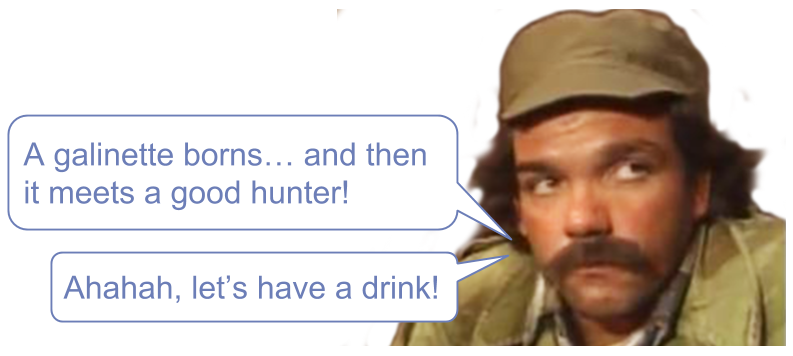
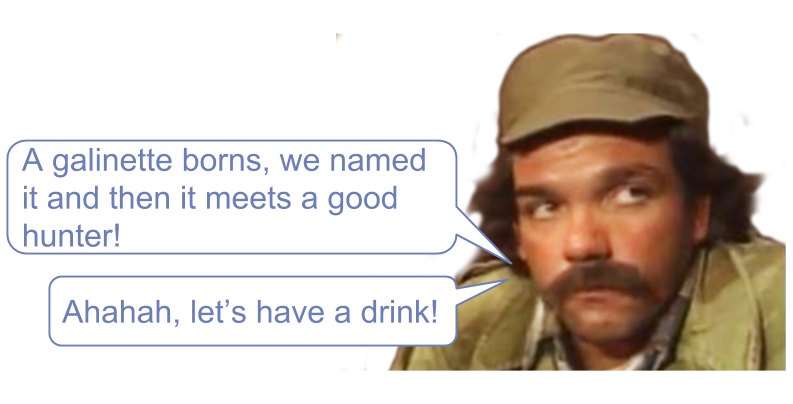
Rework galinette design

Changed region(s): [[0.0, 0.0, 0.9987, 0.9888], [0.7264, 0.1545, 0.7566, 0.1854], [0.6658, 0.5253, 0.6961, 0.5562]]

diff --git a/bad-or-good-repository.html b/bad-or-good-repository.html
@@ -144,21 +144,19 @@
 
 							final class Galinette
 							{
-								private $identifier;
-								private $birthday;
-								private $name;
-								private $gender;
-								private $goToHeavenAt;
-
 								// constructor ...
 
 								public static function born(
 									Identifier $identifier,
 									Birthday $birthday,
-									Name $name,
 									Gender $gender
 								): Galinette {
-									return new self($identifier, $birthday, $name, $gender);
+									return new self($identifier, $birthday, new Name(''), $gender);
+								}
+
+							    public function name(Name $name): void
+								{
+									$this->name = $name;
 								}
 
 								public function goToHeaven(): void
@@ -428,29 +426,31 @@
 						<code class="php hljs" data-trim >
 							namespace BouchonnoisCorp\Infrastructure\Storage\Doctrine\Query;
 
-							final class ReleaseOfGalinette implements ReleaseOfGalinette
+							final class ReleaseOfGalinette
 							{
-								private $entityManager;
+								private $connection;
 
-								public function __construct(EntityManagerInterface $entityManager)
+								public function __construct(Connection $connection)
 								{
-									$this->entityManager = $entityManager;
+									$this->connection = $connection;
 								}
 
-								public function findGalinettes(): ReleasedGalinette[]
+								public function findGalinettes(): array
 								{
-									$select = sprintf(
-										'NEW %s(g.identifier, g.name, g.birthday)',
-										ReadModel\ReleaseOfGalinette::class
-									);
+									$query = 'SELECT g.identifier, g.name, g.birthday FROM galinette as g'
 
-									// NEW ReadModel\ReleasedGalinette(g.identifier, g.name, g.birthday)
-									$query = $this->entityManager->createQueryBuilder()
-										->select($select)
-										->from(Galinette::class, 'g')
-										->getQuery();
+									$statement = $this->connection->query($query);
 
-									return $query->execute();
+									$galinettes = [];
+									while ($galinette = $statement->fetch()) {
+										$galinettes[] = new ReadModel\ReleasedGalinette(
+											$galinette['identifier'],
+											$galinette['name'],
+											$galinette['birthday']
+										);
+									}
+
+									return $galinettes;
 								}
 							}
 						</code>
@@ -460,12 +460,12 @@
 					</aside>
 				</section>
 
-				<section>
-					<h2>What is a <strong class="php-color">Read model</strong>?</h2>
-					<blockquote class="fragment">
-						&laquo;A <strong class="sylius-color">read model</strong> is a immutable model specialized for reads.&raquo;
-					</blockquote>
-				</section>
+				<!--<section>-->
+					<!--<h2>What is a <strong class="php-color">Read model</strong>?</h2>-->
+					<!--<blockquote class="fragment">-->
+						<!--&laquo;A <strong class="sylius-color">read model</strong> is an easily serializable object which is not responsible of changing the application state&raquo;-->
+					<!--</blockquote>-->
+				<!--</section>-->
 
 				<section>
 					<pre>
@@ -479,9 +479,9 @@
 								private $birthday;
 
 								public function __construct(
-									Identifier $identifier,
-									Name $name,
-									Birthday $birthday
+									string $identifier,
+									string $name,
+									string $birthday
 								) {
 									$this->identifier = $identifier;
 									$this->name = $name;
@@ -491,9 +491,9 @@
 								public function normalize(): array
 								{
 									return [
-										'id' => (string) $this->identifier,
-										'name' => (string) $this->name,
-										'birthday' => (string) $this->birthday,
+										'id' => $this->identifier,
+										'name' => $this->name,
+										'birthday' => $this->birthday,
 									];
 								}
 							}
